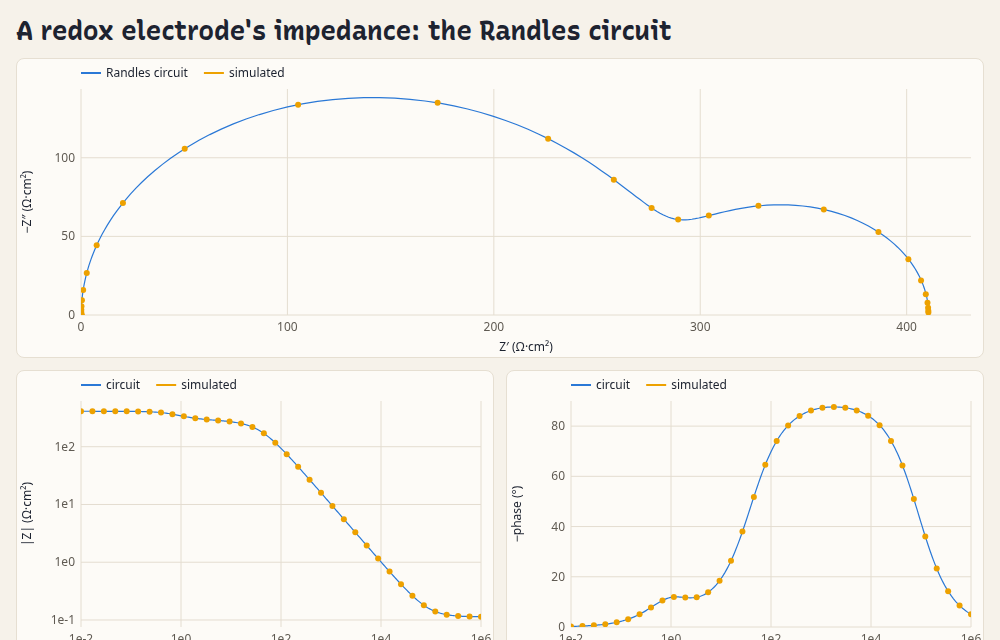
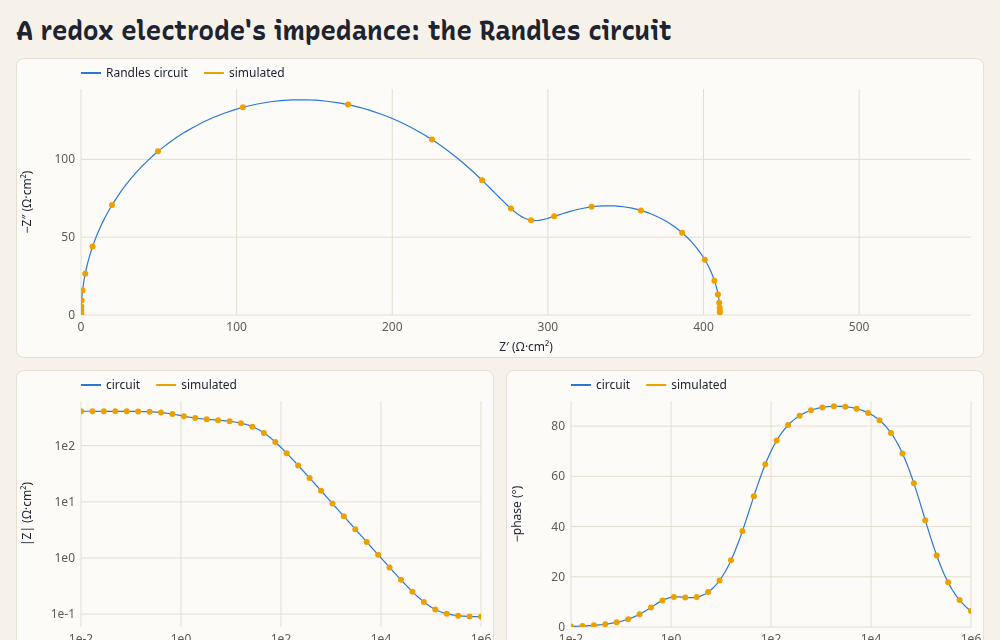
Randles page: after an open-brief review, a Nyquist plot to scale, k⁰ in cm/s, and the idealisations said
- The Nyquist plot was a fixed 3:1 span: squashed by a quarter on a desktop,
  stretched 2.4× on a phone (a flattened arc is how a CPE is diagnosed), and
  clipped in most slider states. Now one scale both ways, from the canvas's
  plot area, holding the whole spectrum.
- i₀ = Fk⁰c was 1000× off against the slider's mol/(m²·s); the slider is now
  in cm/s, and k⁰ = RT/(F²R_ct c) gets it back from a fit.
- 10 mM HCl, so Fe³⁺ doesn't hydrolyse; the readout gives σ, R_W, the R_ct·C_dl
  corner (not 'the semicircle's top', which the Warburg shifts) and the
  diffusion's corner; the Warburg named (Nernst layer, 'Ws').
- Said plainly: R_s is only the stagnant layer's (real cells' are tens of times
  more), the electrode is set uncharged at rest (real Pt isn't), the capacitor
  is ideal (real electrodes want a CPE), chloride's complexing is left out, and
  the migration error is small partly because both iron ions are cations.
- The circuit drawing redrawn 400 units wide, readable on a phone.

diff --git a/demos/randles.html b/demos/randles.html
@@ -20,10 +20,10 @@
 <main>
 <nav class="site"><a class="brand" href="./"><svg viewBox="0 0 84 74" aria-hidden="true"><path class="mark-rail" d="M4 18 C 34 18, 46 20, 58 34 S 72 54, 80 54" stroke-width="5" stroke-linecap="round"/><path class="mark-rail" d="M4 34 C 34 34, 46 36, 58 50 S 72 70, 80 70" stroke-width="1.8" stroke-linecap="round" opacity="0.75"/><path class="mark-trail" d="M44.9 9.7 L38.9 6.1 M41.0 13.4 L32.8 8.5" stroke-width="1.8" stroke-linecap="round" opacity="0.6"/><circle class="mark-dot" cx="52.2" cy="17.1" r="6.2"/></svg>driftlet</a><a href="./">all demos</a><a href="https://github.com/markblundeberg/driftlet">source on GitHub</a></nav>
   <h1>A redox electrode's impedance: the Randles circuit</h1>
-  <p>Platinum in 1 mM Fe³⁺ and Fe²⁺ with KCl, at rest, behind a stagnant layer of solution: its impedance
-    spectrum, simulated from the ions and the reaction, against the Randles equivalent circuit with every
-    element worked out from the same physics. A semicircle for the reaction and its double layer, then
-    diffusion's arc: a 45° line while the diffusion is short of the stirred bulk (a thick stagnant layer
+  <p>Platinum in 1 mM Fe³⁺ and Fe²⁺ with KCl (and 10 mM HCl), at rest, behind a stagnant layer of solution:
+    its impedance spectrum, simulated from the ions and the reaction, against the Randles equivalent circuit
+    with every element worked out from the same physics. A semicircle for the reaction and its double layer,
+    then diffusion's arc: a 45° line while the diffusion is short of the stirred bulk (a thick stagnant layer
     shows it best), bending back once it reaches it. Vary the rate constant, the salt and the stagnant
     layer. (More about the model below.)</p>
   <div class="controls">
@@ -39,32 +39,44 @@
     <div class="levels wide" id="circuit"></div>
   </div>
   <h2>About this simulation</h2>
-  <p>A small sine wave of voltage on the electrode drives three things at once. Charge piles onto the double
-    layer, like a capacitor C<sub>dl</sub>. Fe³⁺ is reduced and Fe²⁺ oxidised a little faster and slower in turn,
-    which near rest is a resistor, the charge-transfer resistance R<sub>ct</sub> = RT/(Fi<sub>0</sub>), with
-    i<sub>0</sub> = Fk⁰c the exchange current. And the reaction's own small changes in concentration have to
-    diffuse to and from the bulk, which lags: the Warburg impedance Z<sub>W</sub>. The current to all of
-    them crosses the solution, R<sub>s</sub>. So Z = R<sub>s</sub> + 1/(iωC<sub>dl</sub> + 1/(R<sub>ct</sub> +
-    Z<sub>W</sub>)), Randles' circuit. The semicircle's top sits at ω = 1/(R<sub>ct</sub>C<sub>dl</sub>);
-    below that frequency the Warburg's 45° line takes over; and once the diffusion reaches through the
-    stagnant layer to the stirred bulk (about D/L²), Z<sub>W</sub> stops growing and the spectrum bends back to
-    the real axis at R<sub>s</sub> + R<sub>ct</sub> + R<sub>W</sub>, with R<sub>W</sub> =
-    (RTL/F²c)(1/D<sub>Fe³⁺</sub> + 1/D<sub>Fe²⁺</sub>).</p>
+  <p>A small sine wave of voltage on the electrode (small next to RT/F, 26 mV, so the response is linear)
+    drives three things at once. Charge piles onto the double layer, like a capacitor C<sub>dl</sub>. Fe³⁺
+    is reduced and Fe²⁺ oxidised a little faster and slower in turn, which near rest is a resistor, the
+    charge-transfer resistance R<sub>ct</sub> = RT/(Fi<sub>0</sub>), with i<sub>0</sub> = Fk⁰c the exchange
+    current (k⁰ in m/s; so k⁰ = RT/(F²R<sub>ct</sub>c) gives it back from a fit). And the reaction's own
+    small changes in concentration have to diffuse to and from the bulk, which lags: the Warburg impedance
+    Z<sub>W</sub>, at first σ(1 − i)ω<sup>−½</sup>. The current to all of them crosses the solution,
+    R<sub>s</sub>. So Z = R<sub>s</sub> + 1/(iωC<sub>dl</sub> + 1/(R<sub>ct</sub> + Z<sub>W</sub>)), Randles'
+    circuit. Its corner at ω = 1/(R<sub>ct</sub>C<sub>dl</sub>) is the top of the semicircle while the
+    Warburg there is small; then the 45° line takes over; and once the diffusion reaches through the
+    stagnant layer to the stirred bulk (about D/(2πL²) in frequency), Z<sub>W</sub> stops growing and the
+    spectrum bends back to the real axis at R<sub>s</sub> + R<sub>ct</sub> + R<sub>W</sub>, with
+    R<sub>W</sub> = (RTL/F²c)(1/D<sub>Fe³⁺</sub> + 1/D<sub>Fe²⁺</sub>). That's the transmissive finite
+    Warburg of a Nernst diffusion layer (fitting programs' "Ws"); a <a href="rde.html">rotating disk</a> is
+    the usual way to make one.</p>
   <p>driftlet knows nothing of the circuit: it solves the ions, the potential and the reaction for their small
     oscillation at each frequency. The circuit's elements here come from the same physics, by hand:
-    R<sub>s</sub> = L/κ from the solution's conductivity; C<sub>dl</sub>, an inner (Stern) layer of
-    20 µF/cm² in series with the diffuse layer's εκ<sub>D</sub> (Gouy–Chapman at zero charge, which the
-    electrode is held at); R<sub>ct</sub> from k⁰; and Z<sub>W</sub> for a layer of thickness L ending at a
-    fixed bulk, (RT/F²c)·Σ tanh(L√(iω/D))/√(iωD) over Fe³⁺ and Fe²⁺. The readout gives how far the two
-    disagree, under 1% across these controls. Most of that shrinks with less iron: the iron's own
-    migration, and its share in charging the double layer, which the circuit leaves out. The rest, a few
-    tenths of a percent in the most dilute salt, isn't traced here. (Not the Frumkin effect: at rest a
-    change in ψ moves the forward and back reactions alike, z<sub>Fe³⁺</sub> − z<sub>Fe²⁺</sub> = 1 being
-    the electron's own charge, so R<sub>ct</sub> sees the whole of the overpotential.)</p>
-  <p>The double layer is below the grid (driftlet's <code>diffuse: { epsr }</code>), set so the electrode
-    has no charge at rest: off its zero charge, ψ would shift the reaction's rate (the Frumkin effect, on
-    <a href="frumkin.html">its own page</a>) and the diffuse layer's capacitance, and the circuit's elements
-    would need those corrections too. k⁰ is illustrative.</p>
+    R<sub>s</sub> = L/κ from the solution's ideal conductivity; C<sub>dl</sub>, an inner (Stern) layer of
+    20 µF/cm² in series with the diffuse layer's εκ<sub>D</sub> (Gouy–Chapman at zero charge); R<sub>ct</sub>
+    from k⁰; and Z<sub>W</sub> for a layer of thickness L ending at a fixed bulk, (RT/F²c)·Σ
+    tanh(L√(iω/D))/√(iωD) over Fe³⁺ and Fe²⁺. The readout gives how far the two disagree, under 1% across
+    these controls. Most of that shrinks with less iron: the iron's own migration, which the circuit leaves
+    out (in the most dilute salt Fe³⁺ and Fe²⁺ carry a few percent of the current, but both are cations
+    pushed the same way, and their corrections to R<sub>W</sub> mostly cancel: a couple with one neutral
+    form would be off by more). The rest, a tenth of a percent or two, isn't traced here. (Not the Frumkin
+    effect: at rest a change in ψ moves the forward and back reactions alike, since z<sub>Fe³⁺</sub> −
+    z<sub>Fe²⁺</sub> is the electrons' charge, as for any couple, so R<sub>ct</sub> sees the whole of the
+    overpotential.)</p>
+  <p>Three choices make this cleaner than a measurement. R<sub>s</sub> here is only the stagnant layer's, to
+    a reference at its edge; in a real cell it's set by the cell's shape and where the reference sits, and is
+    often tens of times more. The double layer (driftlet's <code>diffuse: { epsr }</code>, below the grid) is
+    set to have no charge at rest; real platinum at this potential sits well positive of its zero charge,
+    with chloride adsorbed, and off zero charge ψ would shift the exchange current (the Frumkin effect, on
+    <a href="frumkin.html">its own page</a>) and C<sub>dl</sub>. And it's an ideal capacitor, where real solid
+    electrodes give depressed arcs, which fits model with a constant-phase element. The solution has 10 mM
+    HCl so that Fe³⁺ doesn't hydrolyse and precipitate; in reality the chloride also complexes Fe³⁺ and
+    speeds its reaction, which this model leaves out. k⁰ is illustrative, in the range reported for this
+    couple at platinum.</p>
 </main>
 <script type="module">
 import { Device, FARADAY, GAS_CONSTANT, EPS0 } from '../src/index.js';
@@ -75,8 +87,8 @@ import { showCode, fromQuery } from './common.js';
 const T = 298.15, RT = GAS_CONSTANT * T;
 const iron = half('Fe3+ + e- = Fe2+');
 const c = 1, alpha = 0.5, Cstern = 0.2; // mol/m³ of each iron ion; F/m² (20 µF/cm²)
-const names = ['K+', 'Cl-', 'Fe3+', 'Fe2+'];
-const bulkOf = (salt) => ({ 'K+': salt, 'Cl-': salt + 5 * c, 'Fe3+': c, 'Fe2+': c });
+const names = ['K+', 'H+', 'Cl-', 'Fe3+', 'Fe2+'];
+const bulkOf = (salt) => ({ 'K+': salt, 'H+': 10, 'Cl-': salt + 10 + 5 * c, 'Fe3+': c, 'Fe2+': c }); // KCl, 10 mM HCl
 const electrode = (drive, { salt, k0, L, zeroCharge }) => {
   const b = bulkOf(salt);
   return build({
@@ -126,7 +138,8 @@ function randles({ salt, k0, L }) {
     const Zw = mul(cx(RT / (FARADAY * FARADAY * c)), add(W(ion('Fe3+').D), W(ion('Fe2+').D)));
     return add(cx(Rs), inv(add(mul(jw, cx(Cdl)), inv(add(cx(Rct), Zw)))));
   };
-  return { Rs, Rct, Cdl, RW, Z };
+  const sigma = (RT / (FARADAY * FARADAY * c * Math.SQRT2)) * (1 / Math.sqrt(ion('Fe3+').D) + 1 / Math.sqrt(ion('Fe2+').D)); // Ω·m²·s^{-1/2}
+  return { Rs, Rct, Cdl, RW, sigma, Z };
 }
 const fs = Array.from({ length: 36 }, (_, k) => 10 ** (-2 + (8 * k) / 35)); // 10 mHz to 1 MHz
 
@@ -137,9 +150,9 @@ for (const el of [k0In, saltIn, LIn]) fromQuery(el);
 const params = () => ({ k0: 10 ** +k0In.value, salt: 1000 * 10 ** +saltIn.value, L: 1e-6 * 10 ** +LIn.value });
 const labels = () => {
   const p = params();
-  document.getElementById('k0Out').textContent = `${p.k0.toPrecision(2)} mol/(m²·s)`;
+  document.getElementById('k0Out').textContent = `${(p.k0 / 10).toPrecision(2)} cm/s`;
   document.getElementById('saltOut').textContent = `${+(p.salt / 1000).toPrecision(2)} M`;
-  document.getElementById('LOut').textContent = `${(p.L * 1e6).toPrecision(2)} µm`;
+  document.getElementById('LOut').textContent = `${p.L < 1e-5 ? (p.L * 1e6).toFixed(1) : Math.round(p.L * 1e6)} µm`;
 };
 const cm2 = (z) => z * 1e4; // Ω·m² to Ω·cm²
 function rebuild() {
@@ -151,9 +164,13 @@ function rebuild() {
   const ft = Array.from({ length: 321 }, (_, k) => 10 ** (-2 + k / 40)), line = ft.map(th.Z);
   document.getElementById('status').textContent =
     `R_s ${cm2(th.Rs).toPrecision(3)} Ω·cm² · C_dl ${(th.Cdl * 100).toPrecision(3)} µF/cm² · R_ct ${cm2(th.Rct).toPrecision(3)} Ω·cm² · ` +
-    `the semicircle's top at ${(1 / (2 * Math.PI * th.Rct * th.Cdl)).toPrecision(2)} Hz · simulation and circuit within ${(100 * worst).toPrecision(2)}%`;
-  // Nyquist, its axes in a 3 : 1 span to keep the semicircle round on this canvas.
-  const xmax = 1.05 * cm2(Math.max(...line.map((z) => z.re))), ymax = xmax / 3;
+    `σ ${cm2(th.sigma).toPrecision(3)} Ω·cm²·s⁻¹ᐟ² · R_W ${cm2(th.RW).toPrecision(3)} Ω·cm² · the R_ct·C_dl corner ${(1 / (2 * Math.PI * th.Rct * th.Cdl)).toPrecision(2)} Hz, ` +
+    `the diffusion's ${(IONS['Fe3+'].D / (2 * Math.PI * p.L * p.L)).toPrecision(2)} Hz · simulation and circuit within ${(100 * worst).toPrecision(2)}%`;
+  // Nyquist on equal scales: one Ω·cm² per so many pixels both ways (the chart's plot area is the canvas
+  // less 76 px across and 72 down), enough to hold the whole spectrum.
+  const canvas = document.getElementById('nyquist'), pw = Math.max(1, canvas.clientWidth - 76), ph = Math.max(1, canvas.clientHeight - 72);
+  const per = 1.05 * Math.max(cm2(Math.max(...line.map((z) => z.re))) / pw, cm2(Math.max(...line.map((z) => -z.im))) / ph);
+  const xmax = per * pw, ymax = per * ph;
   chart(document.getElementById('nyquist'), {
     xlabel: 'Z′ (Ω·cm²)', ylabel: '−Z″ (Ω·cm²)', xlim: [0, xmax], ylim: [0, ymax],
     series: [
@@ -178,24 +195,25 @@ function rebuild() {
   });
   document.getElementById('circuit').innerHTML = circuitSvg(th);
 }
-// The circuit, drawn: R_s in series with C_dl across R_ct + Z_W.
+// The circuit, drawn: R_s in series with C_dl across R_ct + Z_W (400 units wide, so its labels stay
+// readable on a phone).
 function circuitSvg({ Rs, Rct, Cdl }) {
   const ink = 'var(--ink)', muted = 'var(--muted)';
-  const label = (x, y, text, sub = '') => `<text x="${x}" y="${y}" text-anchor="middle" fill="${ink}" font-size="14">${text}<tspan font-size="10" dy="3">${sub}</tspan></text>`;
-  const value = (x, y, text) => `<text x="${x}" y="${y}" text-anchor="middle" fill="${muted}" font-size="11">${text}</text>`;
-  return `<svg viewBox="0 0 720 150" role="img" aria-label="the Randles circuit: R_s in series with C_dl in parallel with R_ct and Z_W" font-family="system-ui, sans-serif" style="width:100%;height:auto">
+  const label = (x, y, text, sub = '') => `<text x="${x}" y="${y}" text-anchor="middle" fill="${ink}" font-size="16">${text}<tspan font-size="12" dy="4">${sub}</tspan></text>`;
+  const value = (x, y, text) => `<text x="${x}" y="${y}" text-anchor="middle" fill="${muted}" font-size="13">${text}</text>`;
+  return `<svg viewBox="0 0 400 170" role="img" aria-label="the Randles circuit: R_s in series with C_dl in parallel with R_ct and Z_W" font-family="system-ui, sans-serif" style="width:100%;max-width:640px;height:auto;display:block;margin:auto">
     <g stroke="${ink}" stroke-width="1.5" fill="none">
-      <path d="M20 75 H90 M150 75 H220 V35 H330 M372 35 H600 V75 H700 M220 75 V115 H290 M350 115 H420 M480 115 H600 V75"/>
-      <rect x="90" y="63" width="60" height="24"/>
-      <path d="M330 20 V50 M342 20 V50"/><path d="M342 35 H372"/>
-      <rect x="290" y="103" width="60" height="24"/>
-      <path d="M420 103 L440 127 L460 103 L480 127"/>
+      <path d="M10 85 H40 M90 85 H120 V40 H183 M197 40 H330 V85 H390 M120 85 V130 H160 M210 130 H240 M290 130 H330 V85"/>
+      <rect x="40" y="73" width="50" height="24"/>
+      <path d="M183 24 V56 M197 24 V56"/>
+      <rect x="160" y="118" width="50" height="24"/>
+      <path d="M240 118 L253 142 L265 118 L278 142 L290 118"/>
     </g>
-    ${label(120, 55, 'R', 's')}${value(120, 103, `${cm2(Rs).toPrecision(2)} Ω·cm²`)}
-    ${label(336, 14, 'C', 'dl')}${value(400, 30, `${(Cdl * 100).toPrecision(3)} µF/cm²`)}
-    ${label(320, 97, 'R', 'ct')}${value(320, 143, `${cm2(Rct).toPrecision(3)} Ω·cm²`)}
-    ${label(450, 97, 'Z', 'W')}${value(450, 143, 'finite Warburg')}
-    ${value(20, 65, 'Pt')}${value(700, 65, 'bulk')}
+    ${label(65, 63, 'R', 's')}${value(65, 115, `${cm2(Rs).toPrecision(2)} Ω·cm²`)}
+    ${label(190, 18, 'C', 'dl')}${value(262, 34, `${(Cdl * 100).toPrecision(3)} µF/cm²`)}
+    ${label(185, 110, 'R', 'ct')}${value(185, 162, `${cm2(Rct).toPrecision(3)} Ω·cm²`)}
+    ${label(265, 110, 'Z', 'W')}${value(275, 162, 'finite Warburg')}
+    ${value(16, 75, 'Pt')}${value(378, 75, 'bulk')}
   </svg>`;
 }
 for (const el of [k0In, saltIn, LIn]) {
